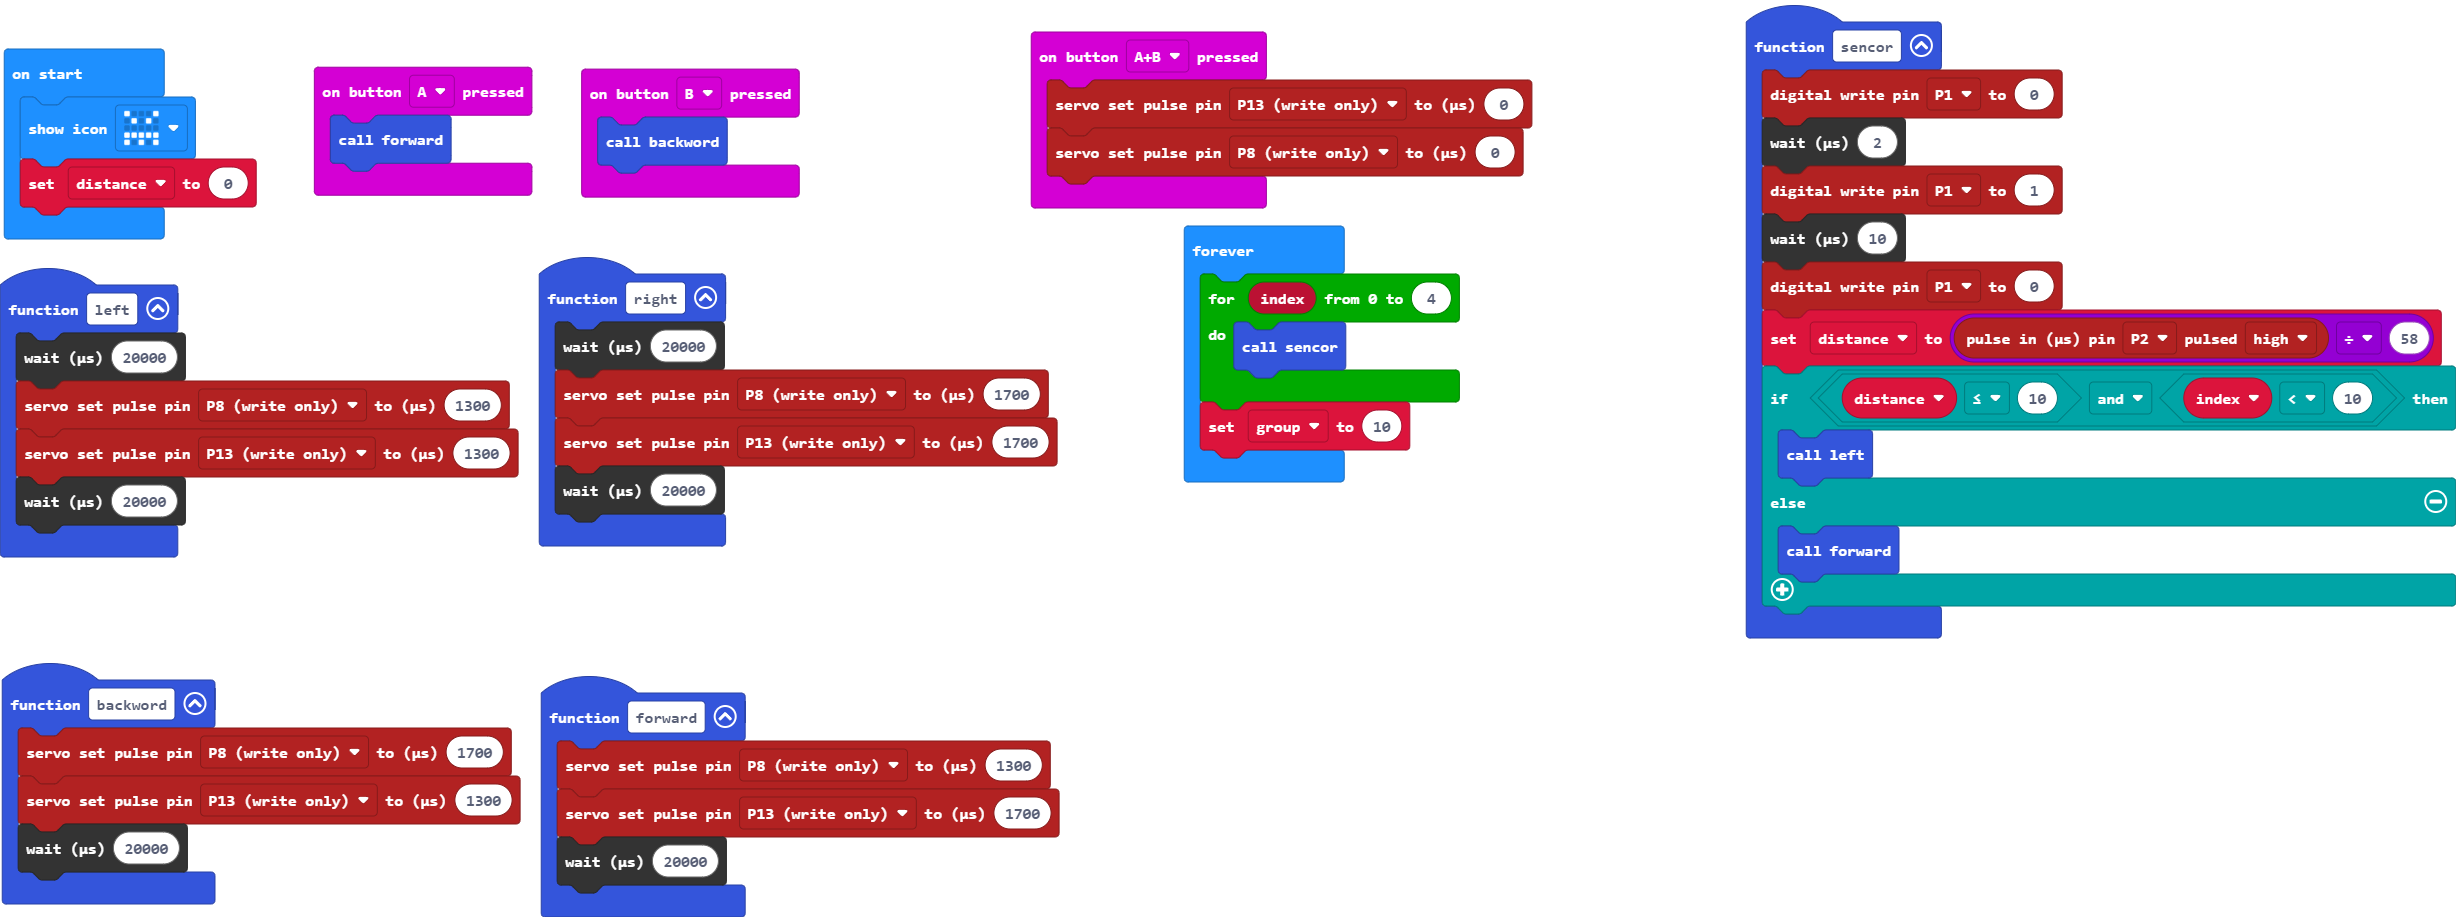
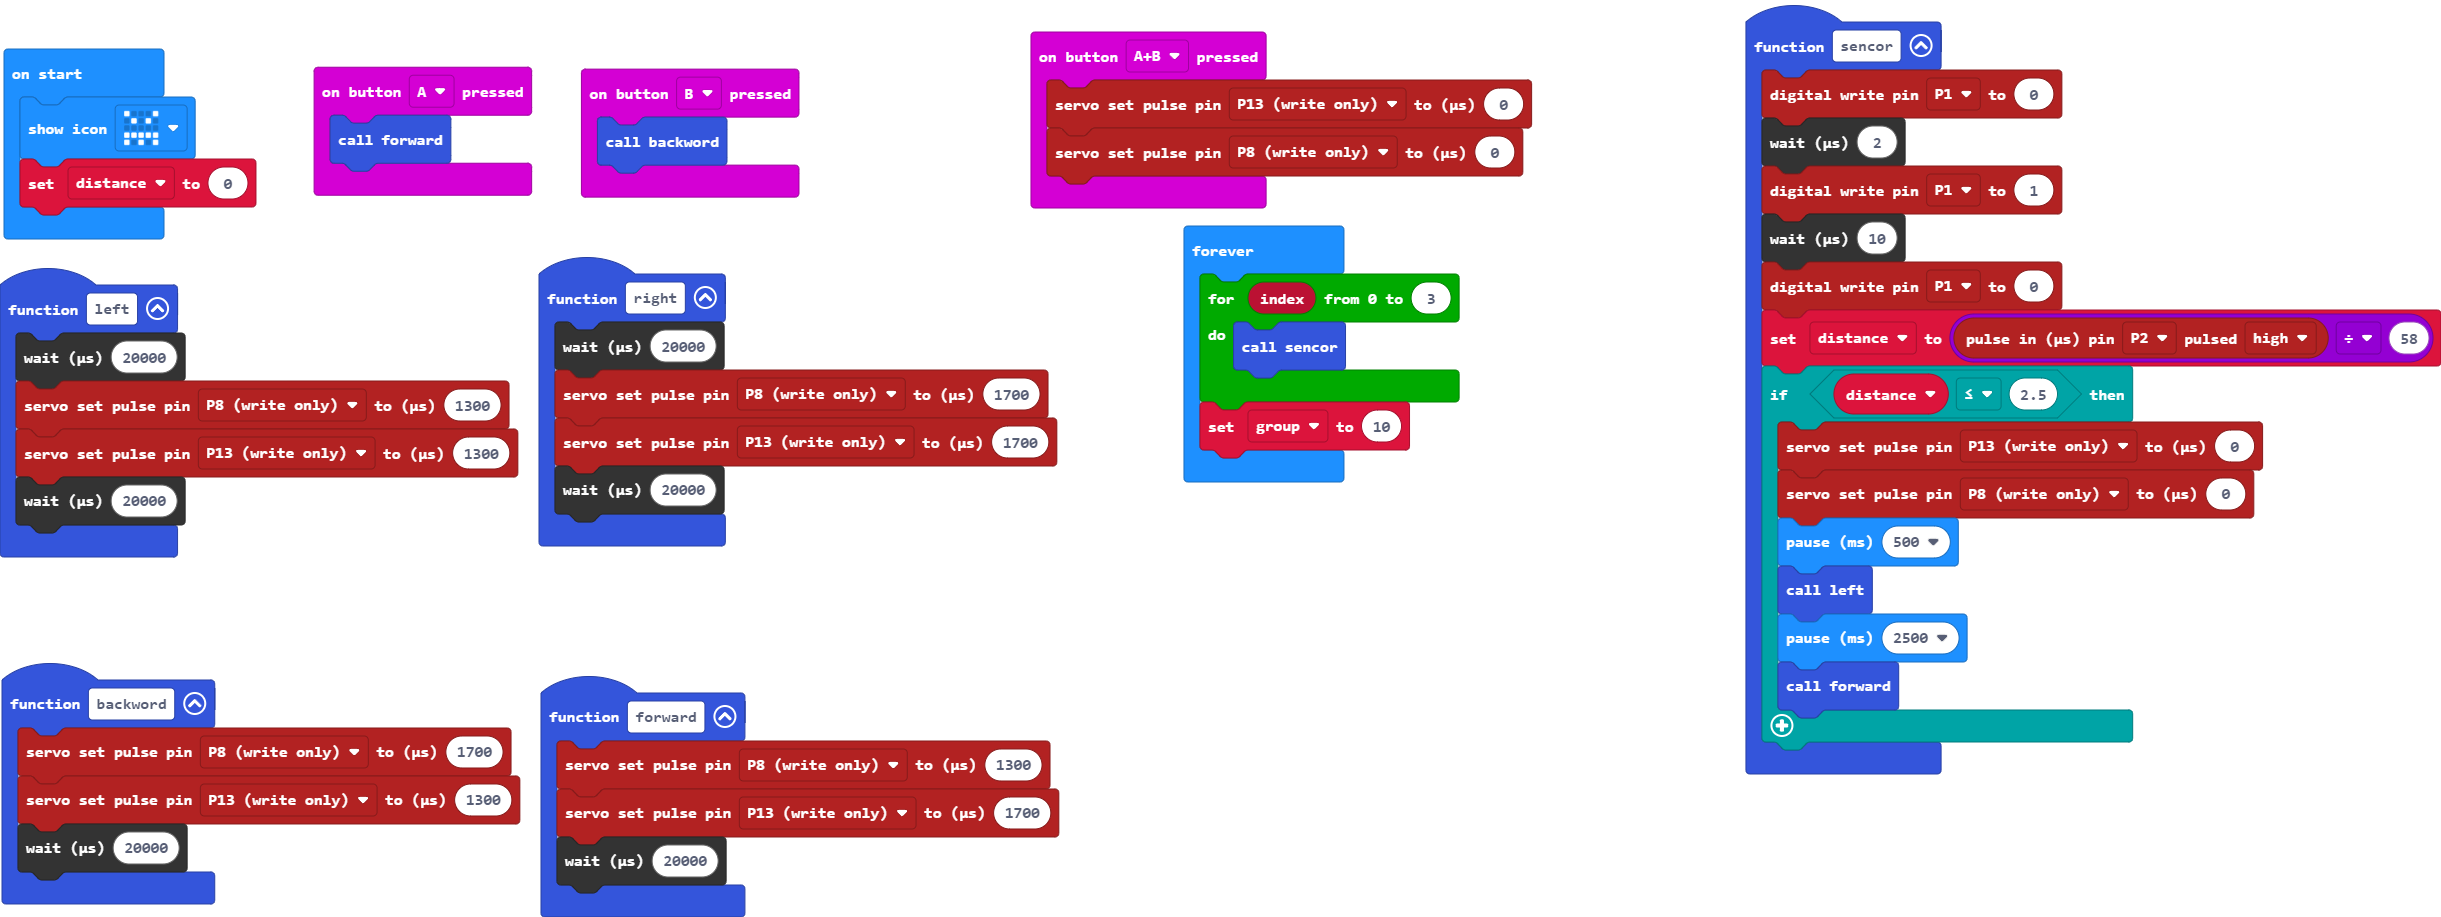
Update main.blocks, main.ts

diff --git a/main.ts b/main.ts
@@ -19,16 +19,18 @@ input.onButtonPressed(Button.A, function () {
     forward()
 })
 function sencor () {
-    let index = 0
     pins.digitalWritePin(DigitalPin.P1, 0)
     control.waitMicros(2)
     pins.digitalWritePin(DigitalPin.P1, 1)
     control.waitMicros(10)
     pins.digitalWritePin(DigitalPin.P1, 0)
     distance = pins.pulseIn(DigitalPin.P2, PulseValue.High) / 58
-    if (distance <= 10 && index < 10) {
+    if (distance <= 2.5) {
+        pins.servoSetPulse(AnalogPin.P13, 0)
+        pins.servoSetPulse(AnalogPin.P8, 0)
+        basic.pause(500)
         left()
-    } else {
+        basic.pause(2500)
         forward()
     }
 }
@@ -49,7 +51,7 @@ let distance = 0
 basic.showIcon(IconNames.Angry)
 distance = 0
 basic.forever(function () {
-    for (let index = 0; index <= 4; index++) {
+    for (let index = 0; index <= 3; index++) {
         sencor()
     }
     group = 10
